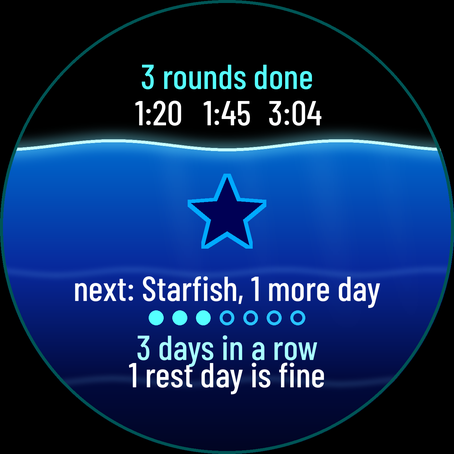
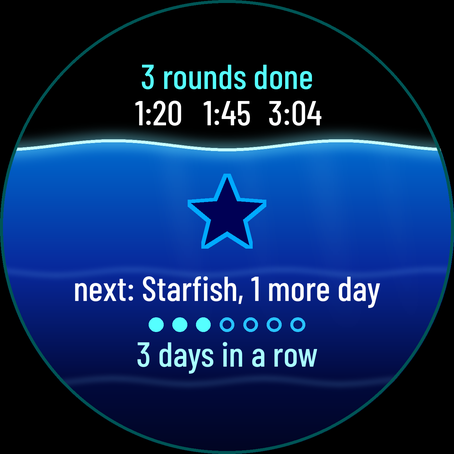
Mila: Ebb blad v8, 6c rustiger (Daan L2), logboek
Claude-Session: https://claude.ai/code/session_01RMWUyiAK8UsKFTnwLjxAw5

Changed region(s): [[0.2775, 0.6784, 0.7093, 0.8634]]

diff --git a/ontwerp/garmin/bron/ebb_blad_v8.py b/ontwerp/garmin/bron/ebb_blad_v8.py
@@ -73,8 +73,8 @@ def s_einde_gewoon8(D):   # A: dag 3 avond, sessie 11, het volgende dier is de S
     dier_vak(im, 'ster', D/2, D*0.465, D*0.20, D*0.15, kleur='silhouet')
     d = ImageDraw.Draw(im)
     tekst(d, D, (D/2, D*0.632), 'next: Starfish, 1 more day', D*0.070, WIT)
-    stippen_label(d, D, D*0.700, 3)
-    tekst(d, D, (D/2, D*0.822), '1 rest day is fine', D*0.060, WIT)
+    stippen_label(d, D, D*0.715, 3)
+    # Daan L2: "1 rest day is fine" alleen als je gisteren rustte; op dag 3 van een reeks dus niet (één regel minder)
     rand(im, D); return im
 
 def s_calm_einde8(D):     # D: dag 4 avond, Calm telt als sessie 13: de Octopus komt

diff --git a/ontwerp/garmin/ebb-blad-v8.md b/ontwerp/garmin/ebb-blad-v8.md
@@ -12,7 +12,7 @@
 - [ja] 3. Silhouet alleen buitenomtrek: gaten worden gevuld, de krul van de garnaal wordt gevuld met een deel dat alleen in het silhouet meedoet (rol 9), bij de krab gaan smalle spleten dicht; armen van octopus, kwal en reuzeninktvis blijven los. Eén oogvorm voor alle dieren (wit met pupil, glans vanaf maat 30; het halfdichte oog is weg). Zeepaardje op de volle vakhoogte, net als kwal, krab en zeester (37 px met rand). Orka-lijf donkergrijs 555555, zadel AAAAAA.
 - [ja] 4. Sea log: keuzestip vast 3 px onder de onderkant van het gekozen dier (gemeten aan het dier, niet aan het vak); niet-actieve bladstippen 00AAFF; blad 3 raster om hetzelfde midden als blad 1 en 2 (lager dan v7). Namen in het dierenoverzicht heel (geen "Jellyfis" meer).
 - [ja] 5. Eén verhaal, van links naar rechts op het blad, met het schema en "hoogstens één nieuw dier per sessie, laagste nummer eerst":
-  - A. 6c, dag 3 avond: sessie 11, reeks 3, geen nieuw dier: "next: Starfish, 1 more day", 3 days in a row.
+  - A. 6c, dag 3 avond: sessie 11, reeks 3, geen nieuw dier: "next: Starfish, 1 more day", 3 days in a row. Daan L2: de zin "1 rest day is fine" staat alleen als je gisteren rustte, hier dus niet; onderaan nog twee regels plus stippen.
   - B. 6b, dag 4 ochtend: sessie 12, reeks 4. Starfish (4d) en Octopus (12x) halen allebei hun drempel; Starfish (nr. 7) gaat voor: "new friend: Starfish".
   - C. Sea log daarna: "8 of 24"; blad 1 Pufferfish "1 more day in a row", blad 2 Octopus "next session", blad 3 Whale "at 50 sessions".
   - D. 6d, dag 4 avond: Calm telt als sessie 13: "new friend: Octopus", 4 days in a row.

diff --git a/ontwerp/logboek-mila.md b/ontwerp/logboek-mila.md
@@ -248,3 +248,4 @@
 - Gemaakt: `ebb-dieren-v8.png`, `ebb-blad-v8.png` en `.md`, `ebb-dieren-v8-data.json` (6280 bytes, controle 1,4 tot 5,5% randpixels), bron `bron/ebb_dieren_v8.py`, `ebb_blad_v8.py`, `exporteer_dieren_v8.py`, `overzicht_dieren_v8.py`. Bericht aan Gijs.
 - Gezien met Read: alle 25 op 260 vergroot, gevonden en silhouet, en het blad. Eerste poging maakte armen dicht (reuzeninktvis werd een klok); nu sluiten alleen bij de krab en een vuldeel voor de garnaal.
 - Volgende run: zeeotter als omtrek is nog een blok; maanvis blijft hoog (30 x 37); contrastmeting v7 opnieuw draaien op v8.
+- Daan L2 (6c te vol) meteen verwerkt in blad v8: rustdag-zin alleen na een rustdag. L1 (pil Next op 1c) hoort bij v7-scherm 1c, volgende run.
